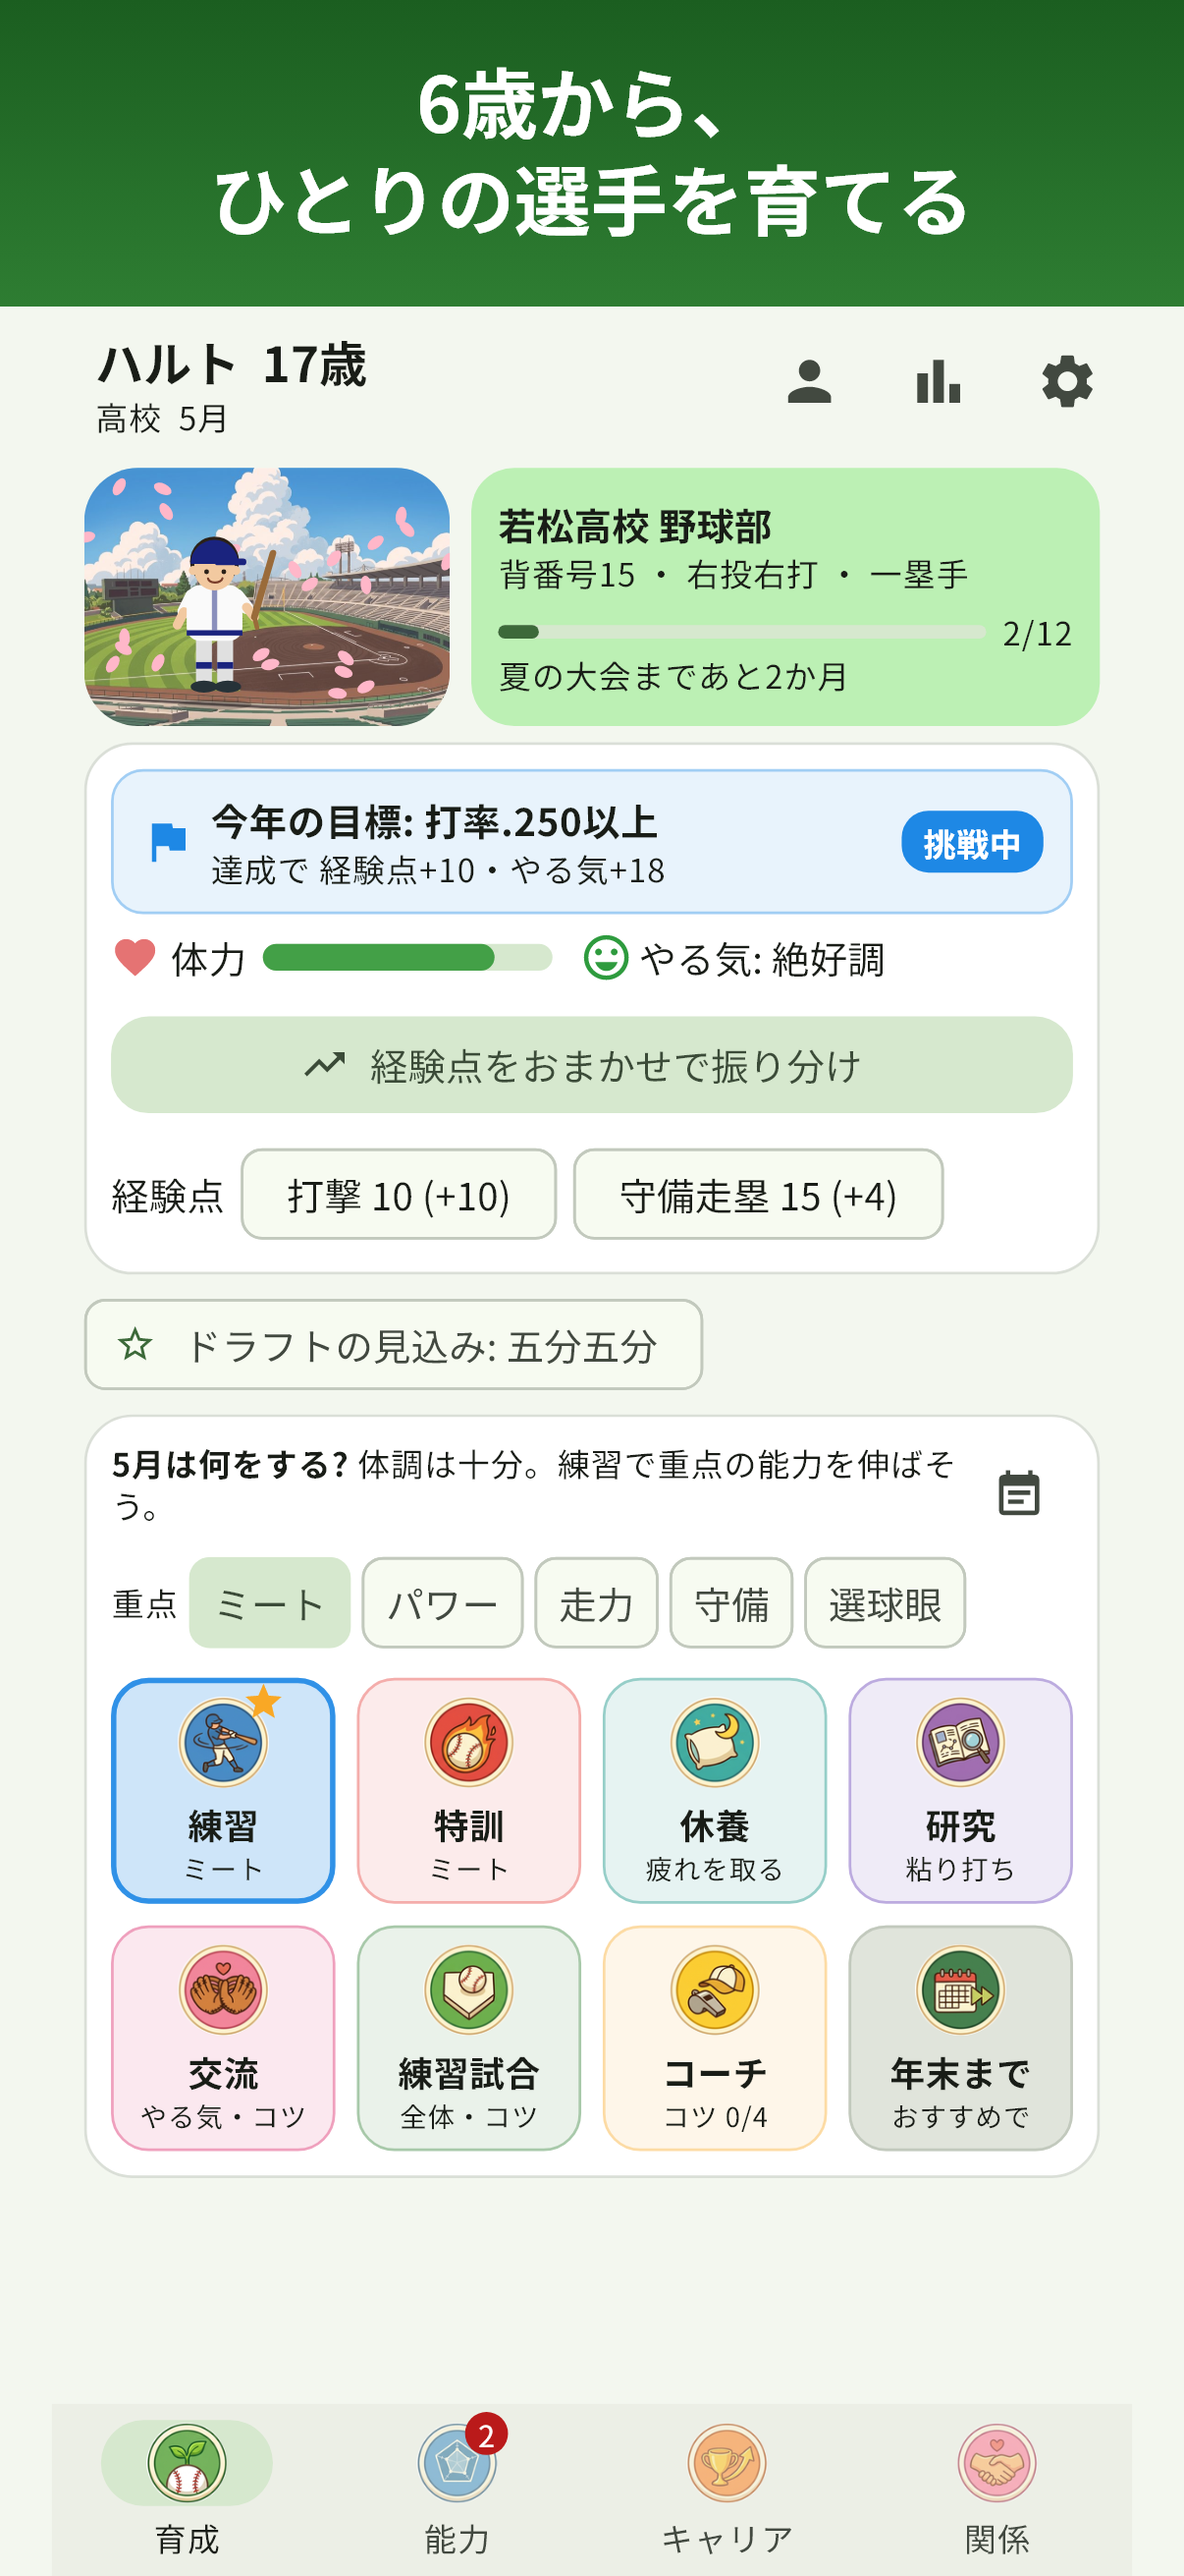
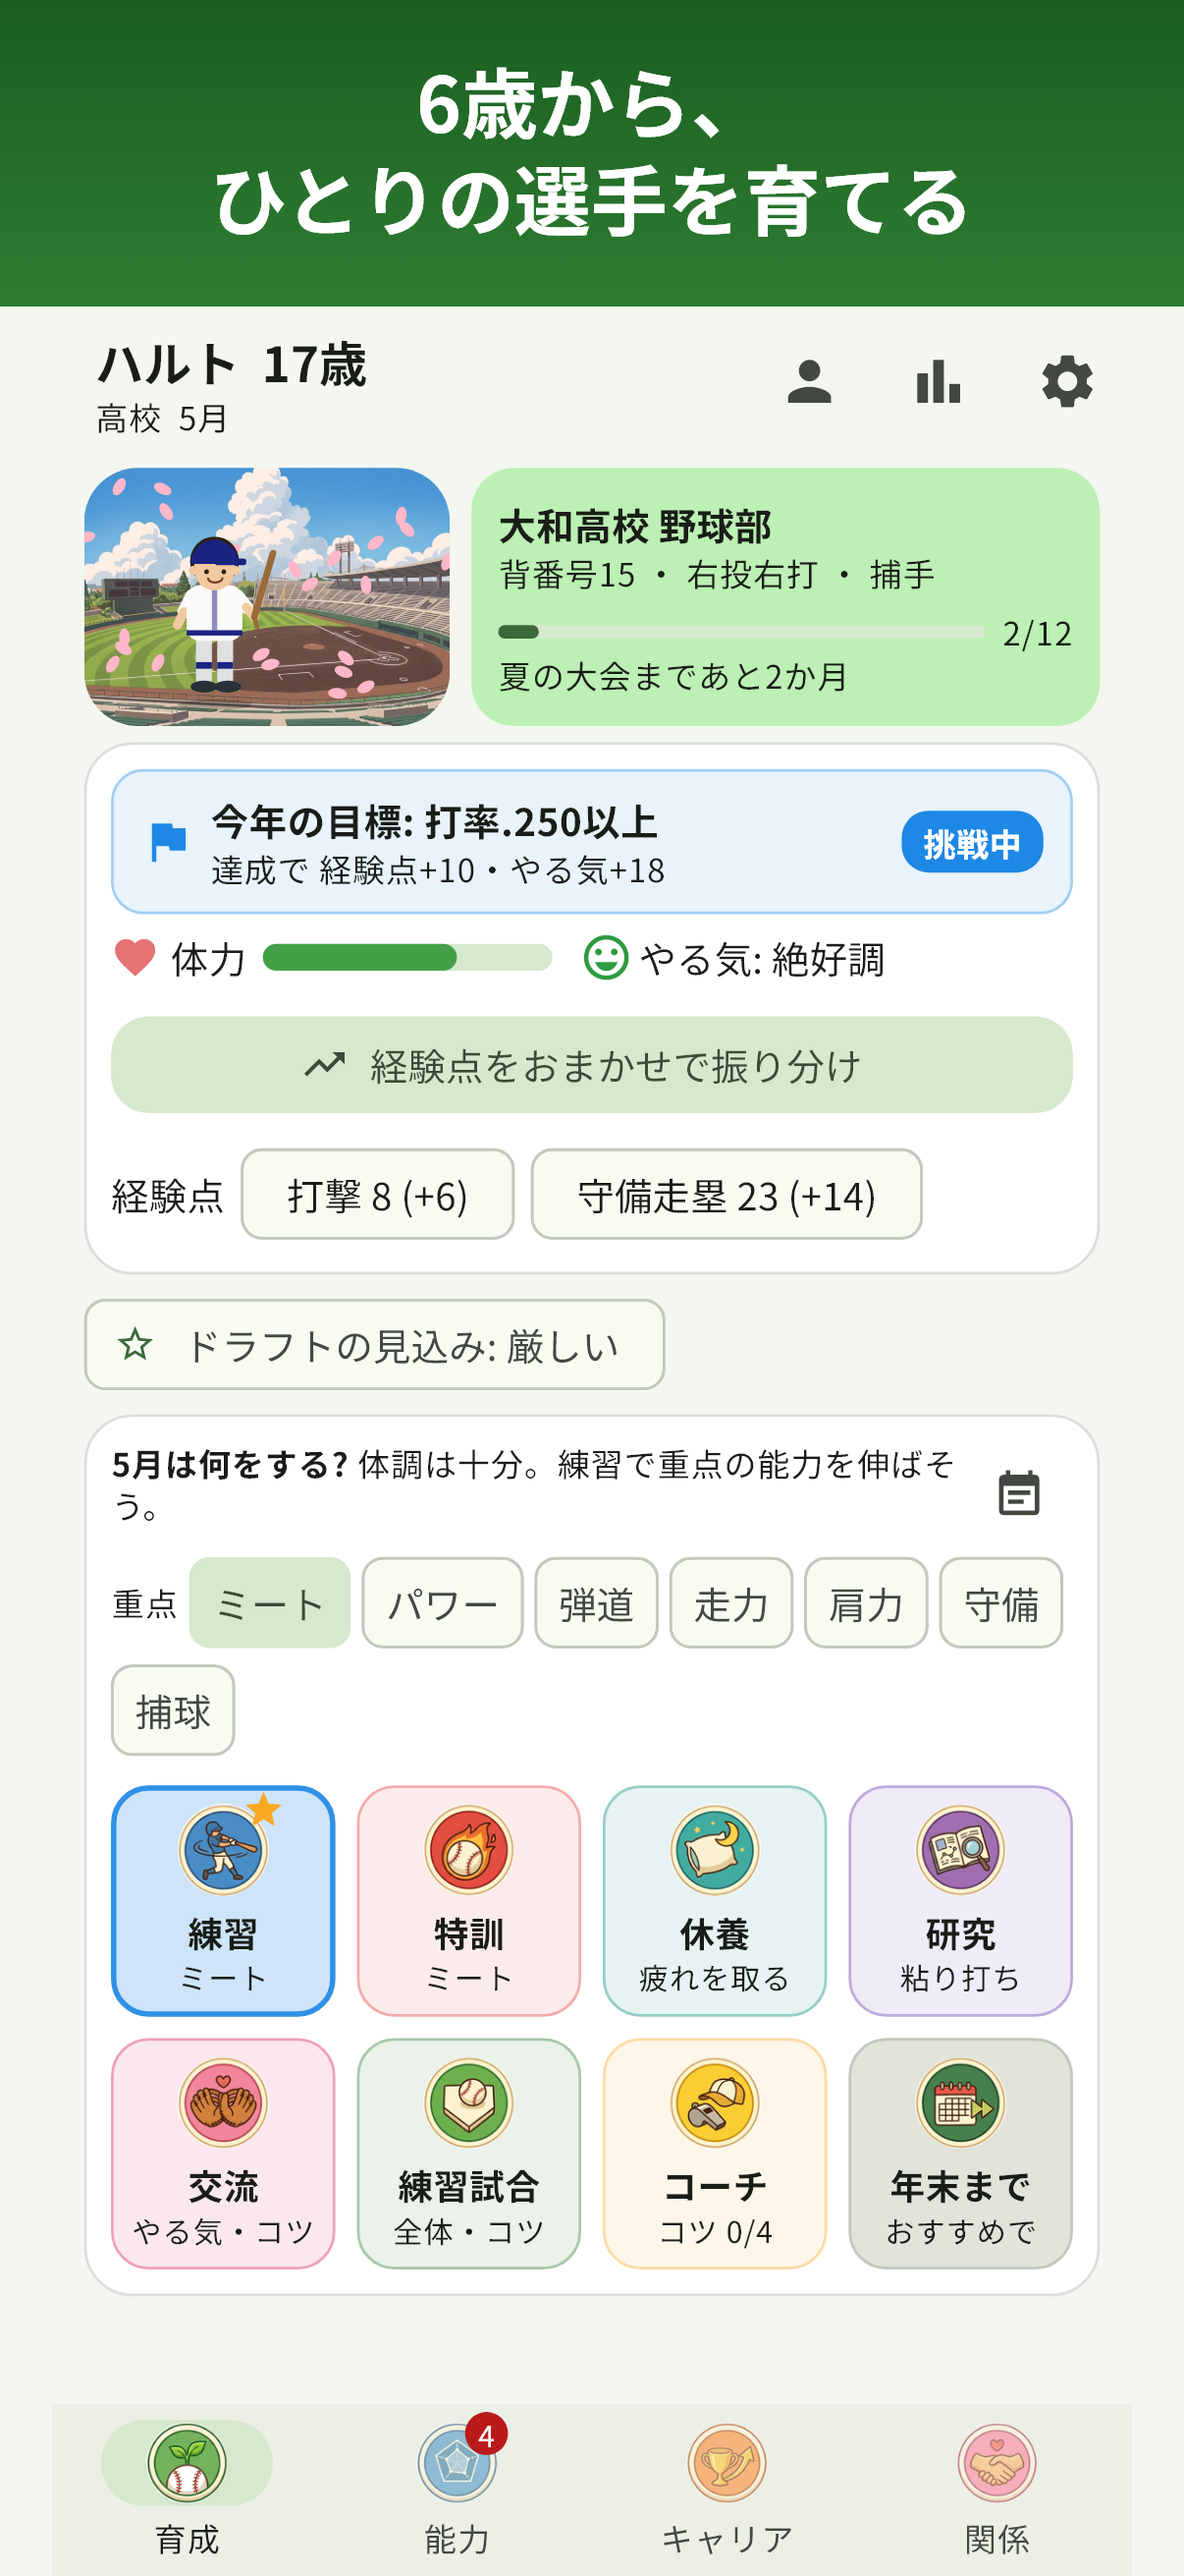
野球育成: 掲載画像を新しい能力(7つ・五角形なし)で撮り直す

diff --git a/projects/baseball-manager/tool/screenshots/capture_test.dart b/projects/baseball-manager/tool/screenshots/capture_test.dart
@@ -287,6 +287,9 @@ void main() {
     ), after: () async {
       await t.tap(find.byKey(const Key('tab-ability')));
       await t.pumpAndSettle();
+      // 能力が7つになったので、最後(捕球)まで見えるように少し送る
+      await t.drag(find.byType(ListView).first, const Offset(0, -60));
+      await t.pumpAndSettle();
     });
 
     // 3. 決勝の見せ場。

diff --git a/projects/baseball-manager/STORE_LISTING.md b/projects/baseball-manager/STORE_LISTING.md
@@ -73,7 +73,7 @@
 `tool/screenshots/capture_test.dart` で作る（`marketing/screenshots/*.png`）。
 
 1. 「6歳から、ひとりの選手を育てる」 … 育成画面（背景・行動のタイル・目標）
-2. 「天賦と特性が、選手ごとに違う」 … 能力タブ（レーダー・天賦・特性）
+2. 「天賦と特性が、選手ごとに違う」 … 能力タブ（ランク・天賦・特性。打者の能力7つが全部見える位置まで送って撮る）
 3. 「決勝の見せ場は、自分で選ぶ」 … 決勝の見せ場（3つの作戦）
 4. 「実際の野球にある表彰と大記録」 … 成績・表彰
 5. 「引退のあとも、物語は続く」 … エンディング（引退後の道）
